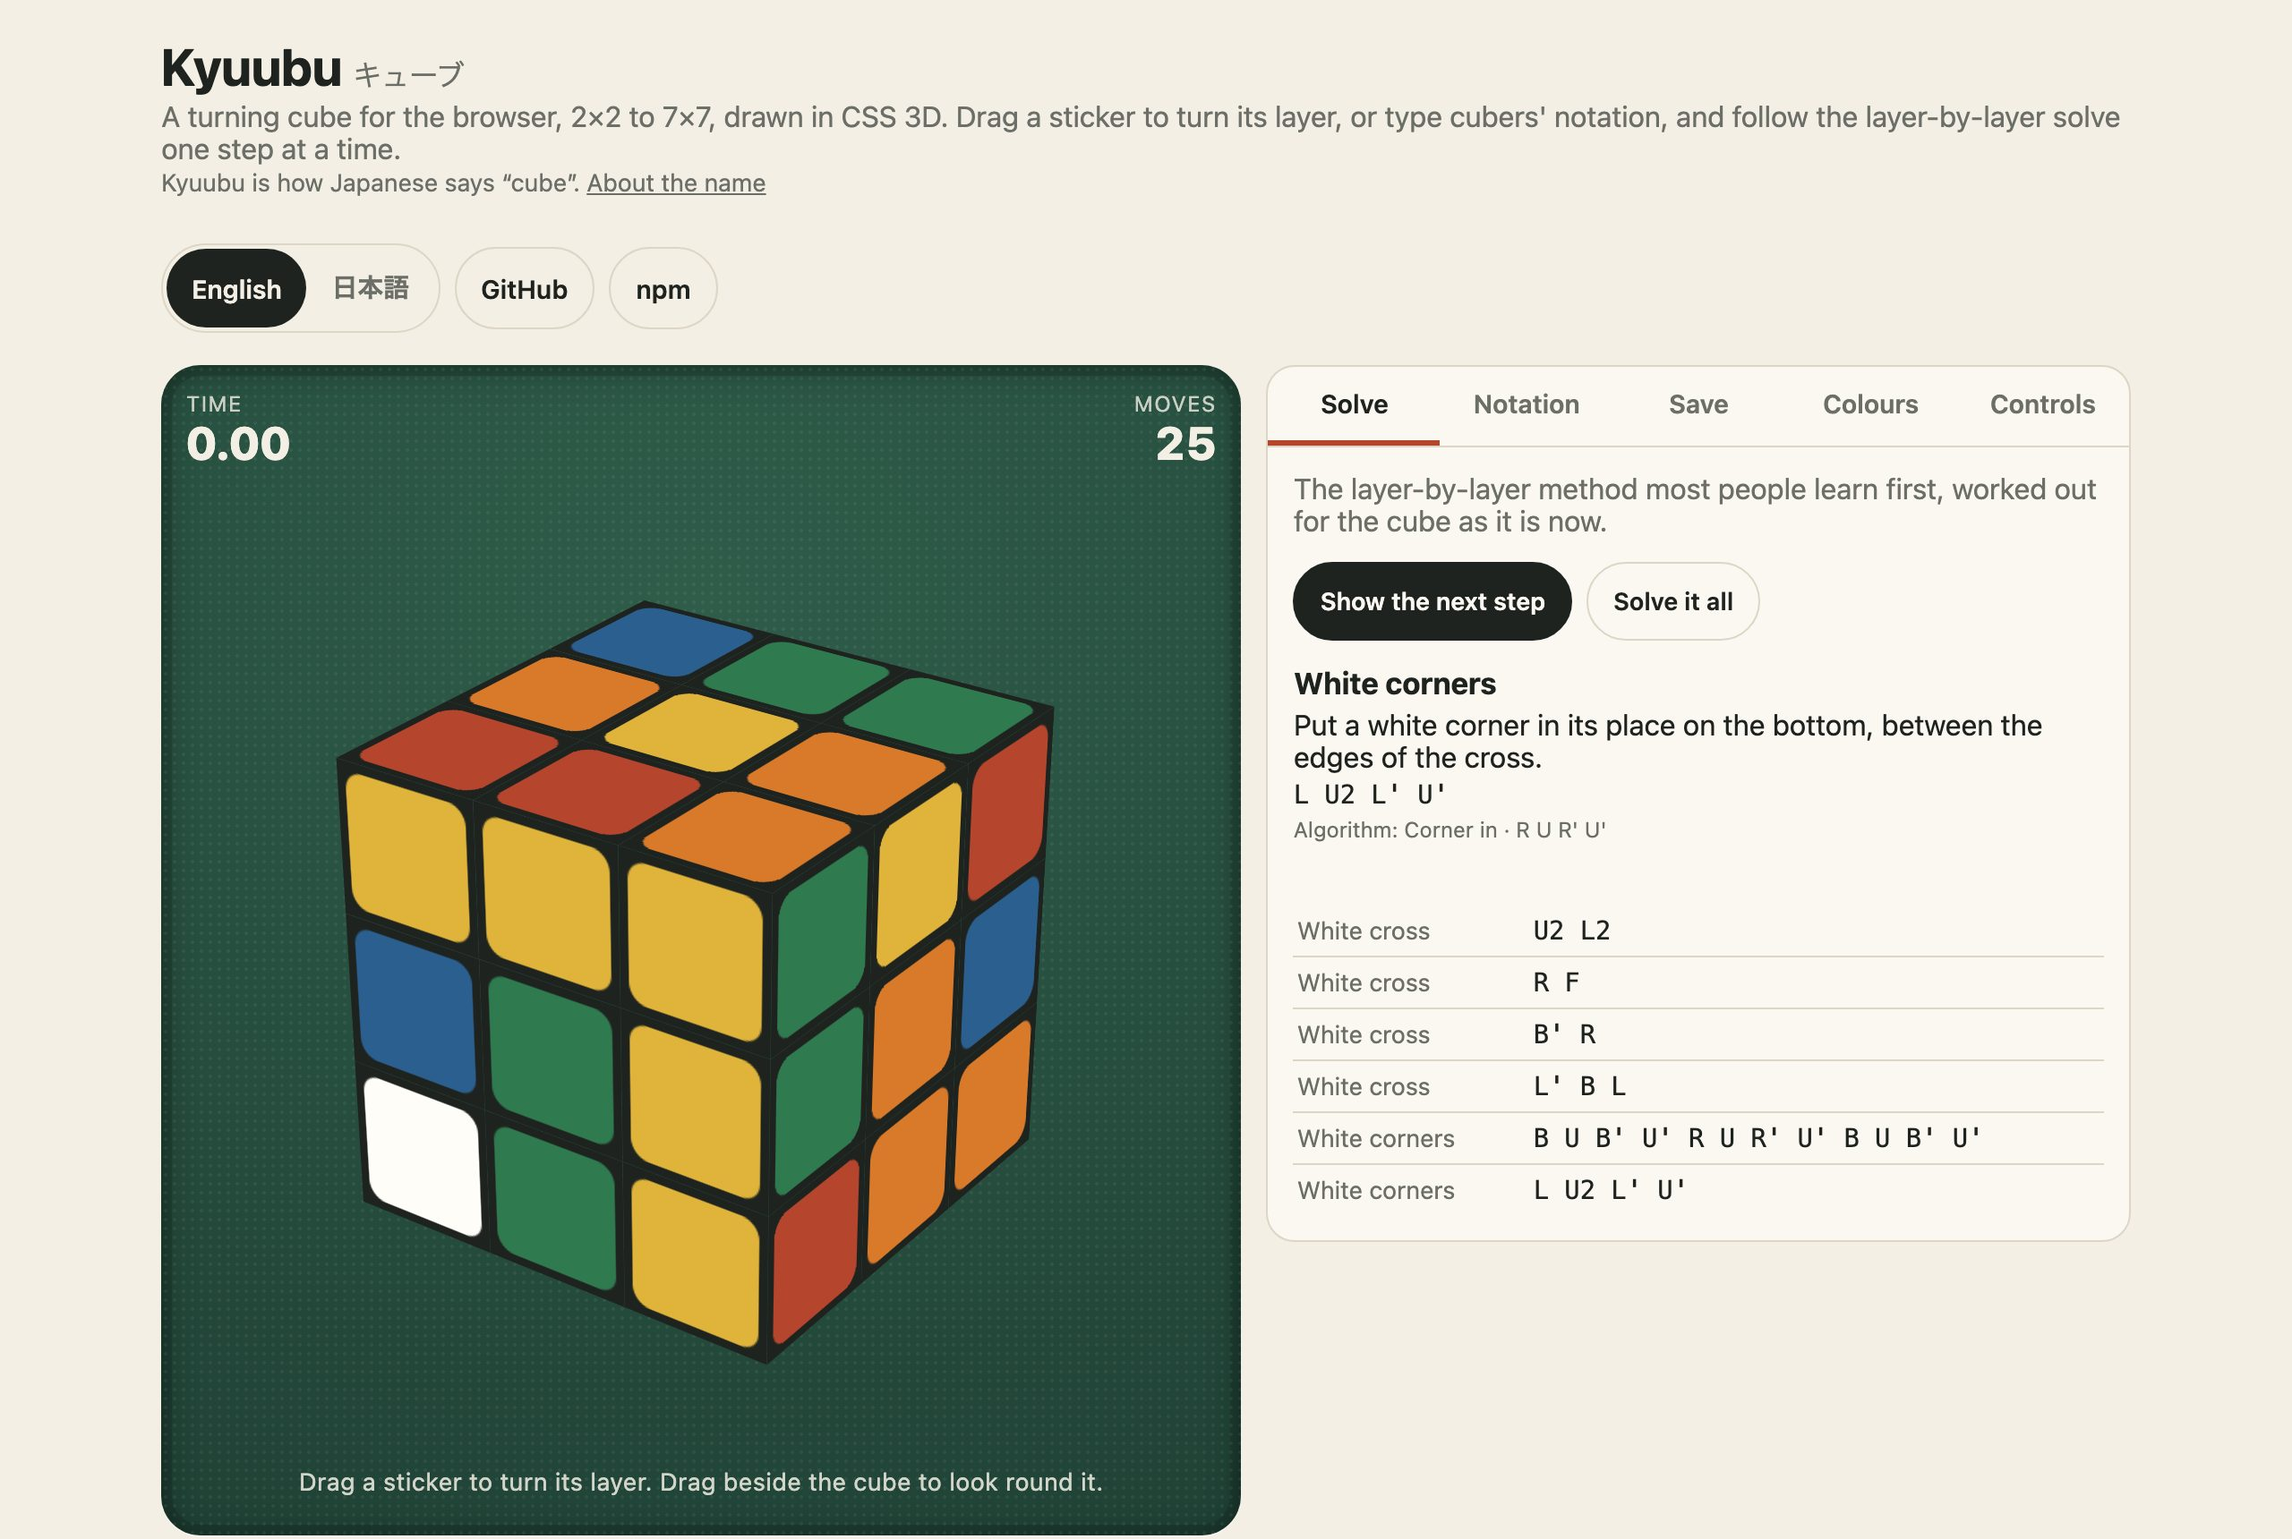
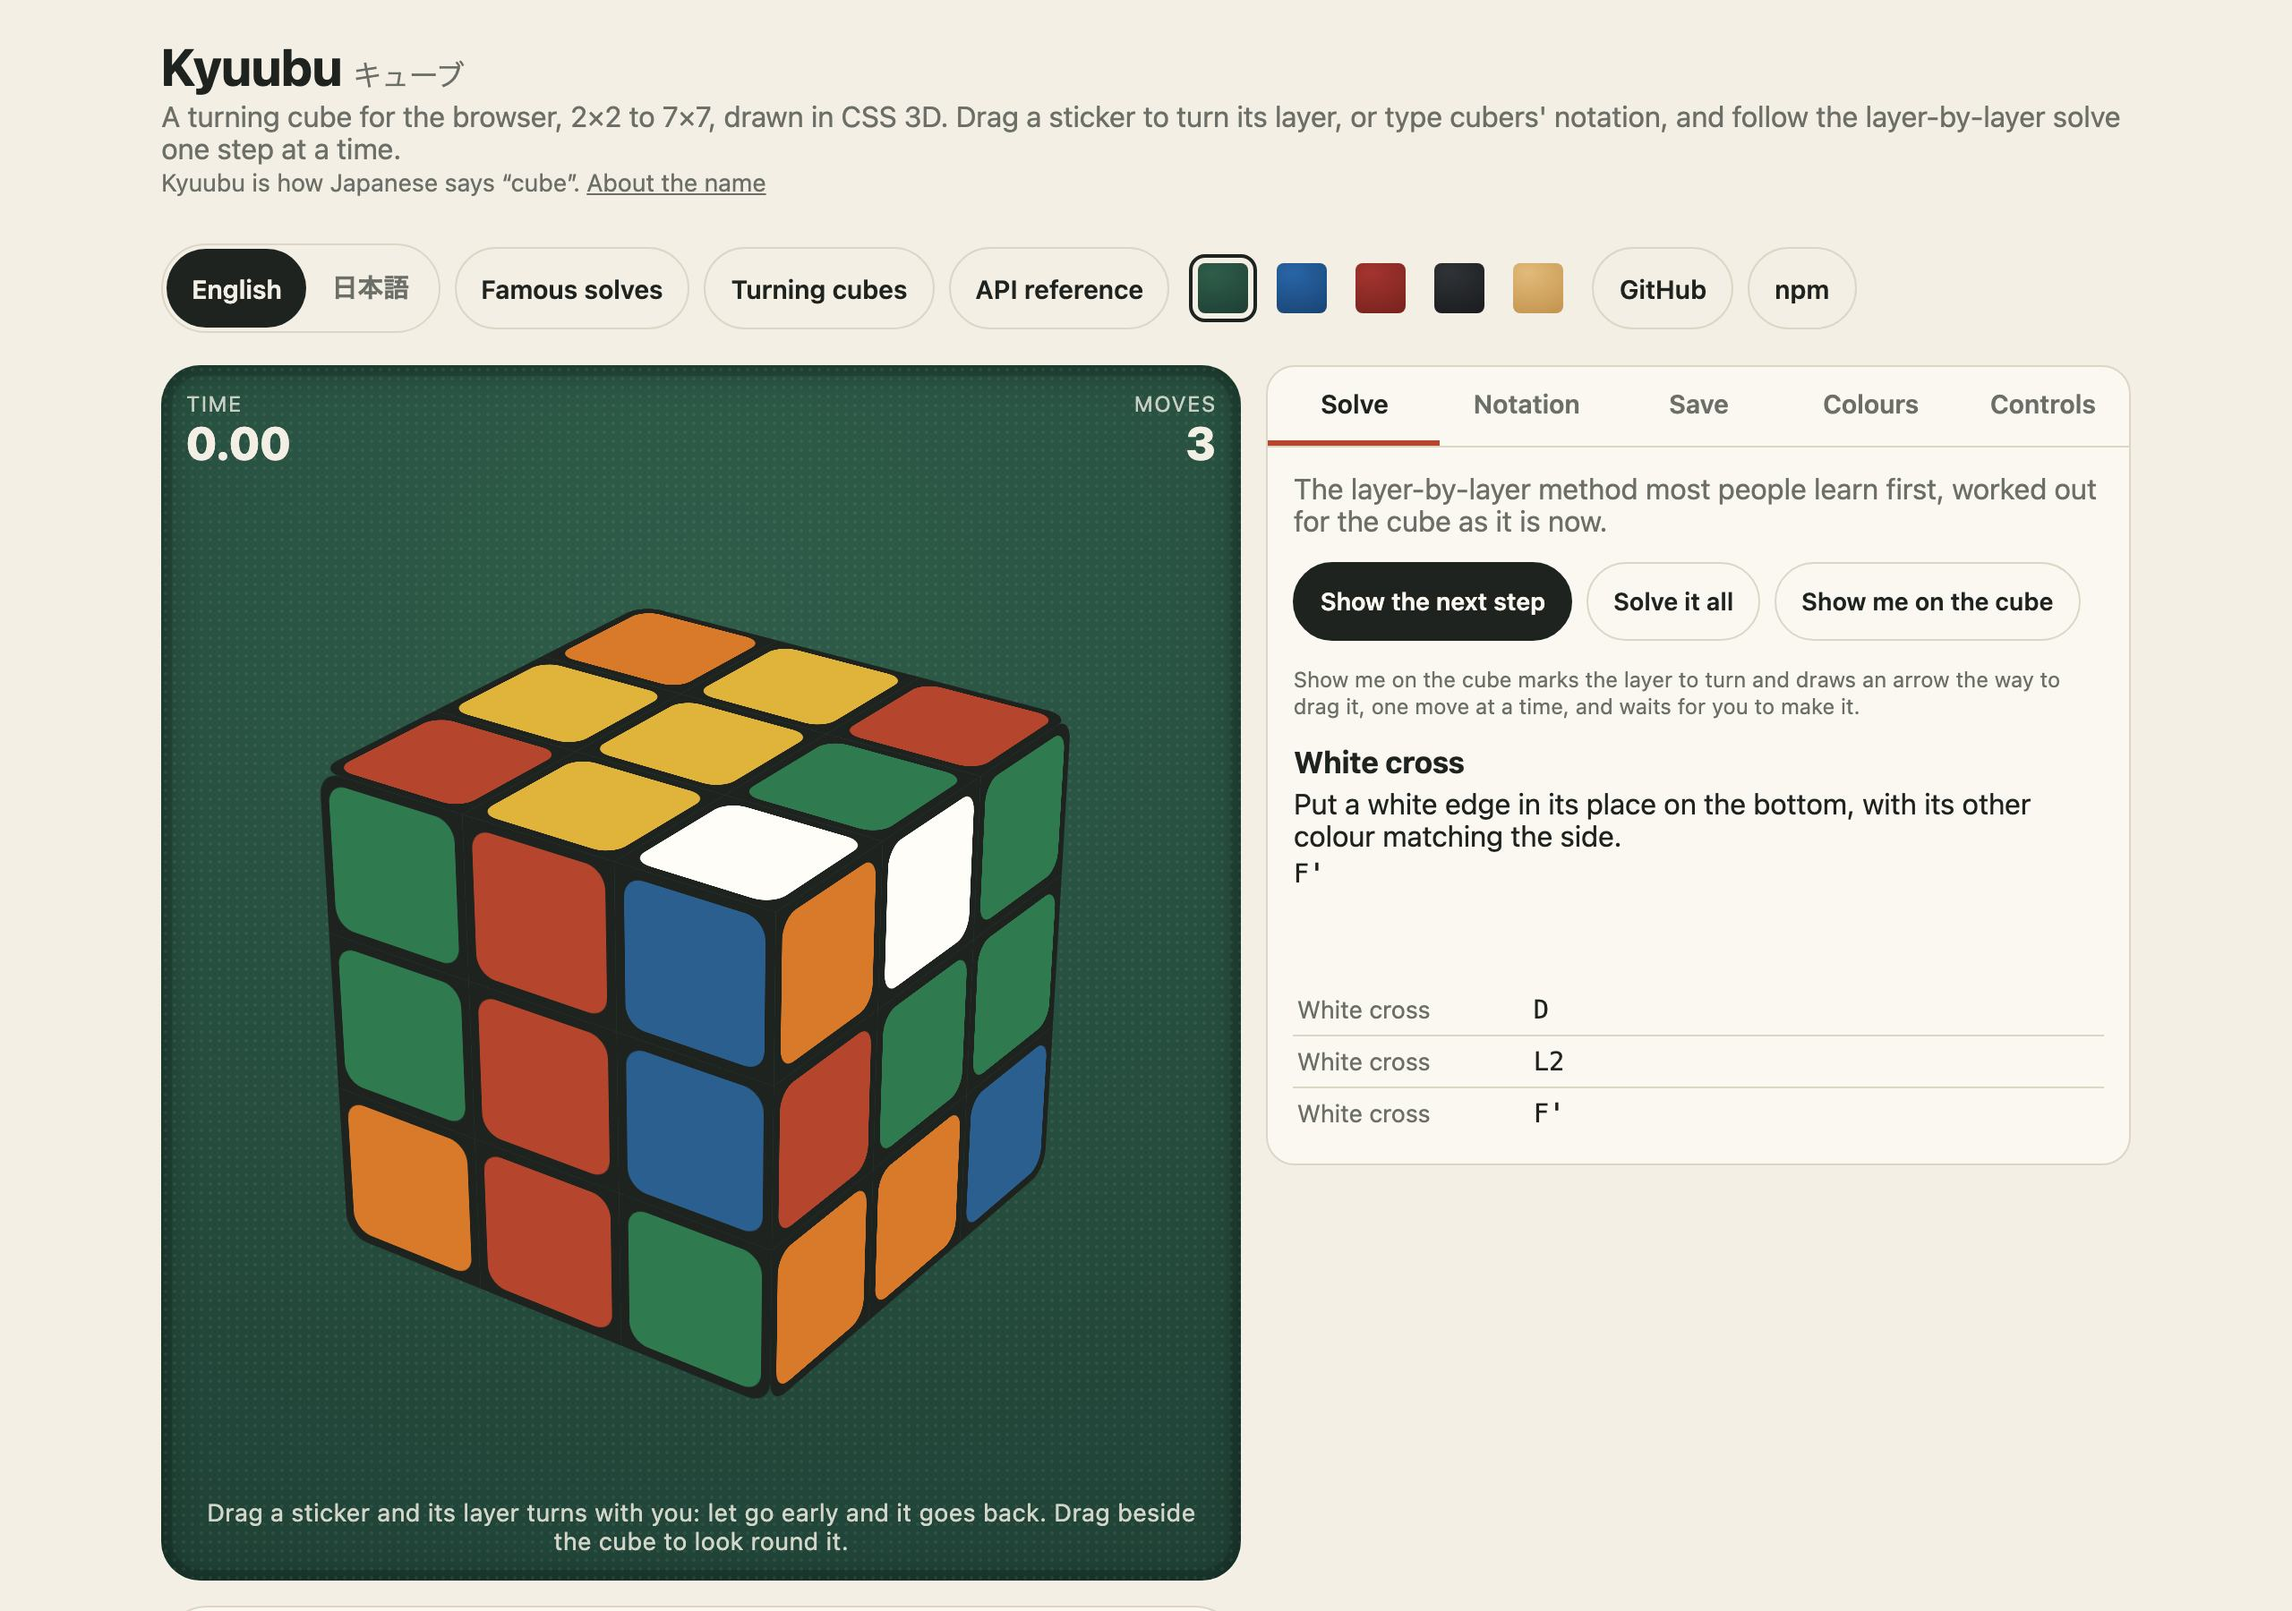
README pictures re-taken from the current demo, with a pictures script that takes them: pnpm pictures

diff --git a/README.md b/README.md
@@ -14,8 +14,8 @@
 <p align="center"><a href="https://johnmorrisdotca.github.io/kyuubu/"><strong>Turn a cube →</strong></a> · <a href="https://johnmorrisdotca.github.io/kyuubu/api.html">API reference</a></p>
 
 <p align="center">
-  <img src="docs/desktop.jpg" alt="A scrambled 3×3 on green felt, part way through its solve: the white corners step, its turns and the algorithm it uses, with the steps already done listed under it" width="720">
-  <img src="docs/phone.jpg" alt="The same page on a phone in dark mode and in Japanese" width="220">
+  <img src="docs/desktop.jpg" alt="A scrambled 3×3 on green felt, three steps into its solve, under the demo's header with its language chooser, page links and five cloth patches: the Solve tab names the White cross step with its turn and lists the steps already taken" width="720">
+  <img src="docs/phone.jpg" alt="The same cube on a phone in dark mode, in Japanese: the timer and move count above it, the 2×2 to 7×7 sizes and the scramble and undo buttons under it" width="220">
 </p>
 
 A 3D cube simulator, a cube model, a scramble generator and a beginner's
